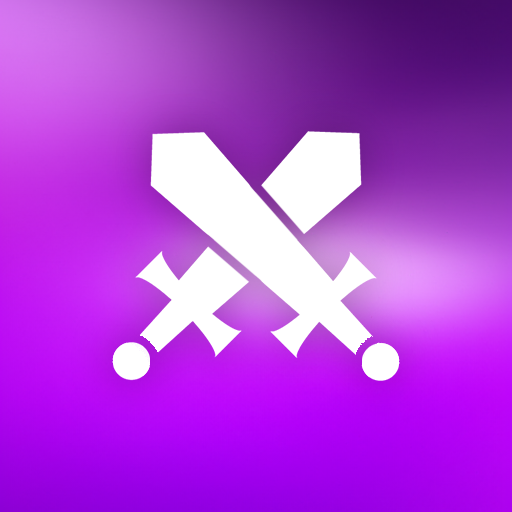
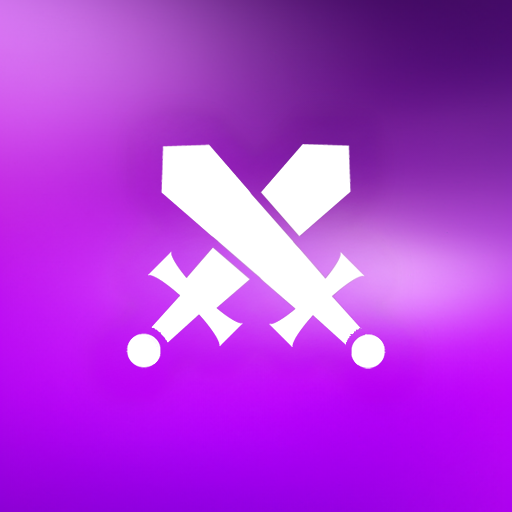
+d Shadow Higlighting in Profile View for different Post/Event types

diff --git a/styles/index.js b/styles/index.js
@@ -215,3 +215,52 @@ export const shadowRed = {
     },
     backgroundColor: colors.black,
 };
+
+export const profileContentShadowPost = {
+    shadowRadius: 8,
+    shadowOpacity: 0.33,
+    shadowColor: colors.blue,
+    shadowOffset: {
+        width: 0,
+        height: -2,
+    },
+
+    borderColor: colors.sec,
+    borderWidth: 1,
+};
+export const profileContentShadowChallenge = {
+    shadowRadius: 8,
+    shadowOpacity: 0.5,
+    shadowColor: "#ca55e7",
+    shadowOffset: {
+        width: 0,
+        height: -2,
+    },
+
+    borderColor: "#8829ac",
+    borderWidth: 1,
+};
+export const profileContentShadowGroup = {
+    shadowRadius: 8,
+    shadowOpacity: 0.5,
+    shadowColor: "#1AA382", //"#26b426ff",
+    shadowOffset: {
+        width: 0,
+        height: -2,
+    },
+
+    borderColor: "#146314",
+    borderWidth: 1,
+};
+export const profileContentShadowEvent = {
+    shadowRadius: 10,
+    shadowOpacity: 0.66,
+    shadowColor: colors.sec,
+    shadowOffset: {
+        width: 0,
+        height: -2,
+    },
+
+    borderColor: colors.sec,
+    borderWidth: 1,
+};

diff --git a/pages/Profile.jsx b/pages/Profile.jsx
@@ -98,20 +98,13 @@ export default function Profile({ navigation, route, openContextMenu }) {
                     .then(postSnap => {
                         if (postSnap.exists()) {
                             const postData = postSnap.val();
-                            if (!postData.isBanned && !postData.group)
+
+                            if (
+                                !postData.isBanned &&
+                                (!postData.group || postData.group === 2)
+                            )
                                 postEventDatas.push(postData);
 
-                            // if (!postData.isBanned) {
-                            //     setUser(user => {
-                            //         return {
-                            //             ...user,
-                            //             posts: user.posts.splice(
-                            //                 user.posts.indexOf(p[i]),
-                            //                 1
-                            //             ),
-                            //         };
-                            //     });
-                            // } else postEventDatas.push(postData);
                             if (i === p.length - 1 && !hasEvents)
                                 setPostEventList(
                                     sortArrayByDate(postEventDatas).reverse()
@@ -543,7 +536,11 @@ export default function Profile({ navigation, route, openContextMenu }) {
                                             data={item}
                                             style={[
                                                 styles.contentItem,
-                                                style.shadowSecSmall,
+                                                !item.group
+                                                    ? style.profileContentShadowPost
+                                                    : item.group === 2
+                                                    ? style.profileContentShadowChallenge
+                                                    : style.profileContentShadowGroup,
                                             ]}
                                             onPress={() =>
                                                 navigation.push("postView", {
@@ -558,7 +555,7 @@ export default function Profile({ navigation, route, openContextMenu }) {
                                             data={item}
                                             style={[
                                                 styles.contentItem,
-                                                style.shadowSecSmall,
+                                                style.profileContentShadowEvent,
                                             ]}
                                             onPress={() =>
                                                 navigation.push("eventView", {

diff --git a/constants/settings/challenge.js b/constants/settings/challenge.js
@@ -105,19 +105,19 @@ export async function resetChallenge(topPosts) {
     // Database Reference
     const db = getDatabase();
 
-    const posts = await getChallengePosts(ref(db));
+    // const posts = await getChallengePosts(ref(db));
     await handleChallengeScoring(topPosts);
 
-    posts.forEach(
-        async id =>
-            await set(ref(db, `posts/${id}/group`), null).catch(error =>
-                console.log(
-                    "error in constants/settings/challenge",
-                    "resetChallenge set posts",
-                    error.code
-                )
-            )
-    );
+    // posts.forEach(
+    //     async id =>
+    //         await set(ref(db, `posts/${id}/group`), null).catch(error =>
+    //             console.log(
+    //                 "error in constants/settings/challenge",
+    //                 "resetChallenge set posts",
+    //                 error.code
+    //             )
+    //         )
+    // );
 
     await set(ref(db, `groups/2/posts`), null).catch(error =>
         console.log(

diff --git a/pages/main/UserProfile.jsx b/pages/main/UserProfile.jsx
@@ -419,7 +419,11 @@ export default function UserProfile({ navigation, onTut }) {
                                             data={item}
                                             style={[
                                                 styles.contentItem,
-                                                style.shadowSecSmall,
+                                                !item.group
+                                                    ? style.profileContentShadowPost
+                                                    : item.group === 2
+                                                    ? style.profileContentShadowChallenge
+                                                    : style.profileContentShadowGroup,
                                             ]}
                                             onPress={() =>
                                                 navigation.push("postView", {
@@ -434,7 +438,7 @@ export default function UserProfile({ navigation, onTut }) {
                                             data={item}
                                             style={[
                                                 styles.contentItem,
-                                                style.shadowSecSmall,
+                                                style.profileContentShadowEvent,
                                             ]}
                                             onPress={() =>
                                                 navigation.push("eventView", {

diff --git a/components/comments/Comment.jsx b/components/comments/Comment.jsx
@@ -1,6 +1,7 @@
 import React from "react";
-import TComment from "./TComment";
 import { View } from "react-native";
+
+import TComment from "./TComment";
 import PComment from "./PComment";
 
 export default function Comment({

diff --git a/components/profile/EventPreview.jsx b/components/profile/EventPreview.jsx
@@ -35,7 +35,7 @@ const styles = StyleSheet.create({
     container: {
         width: "100%",
         aspectRatio: 1,
-        borderRadius: 10,
+        borderRadius: 9,
         position: "relative",
     },
 

diff --git a/components/profile/PostPreview.jsx b/components/profile/PostPreview.jsx
@@ -21,7 +21,7 @@ const styles = StyleSheet.create({
     container: {
         width: "100%",
         aspectRatio: 1,
-        borderRadius: 10,
+        borderRadius: 9,
         zIndex: 2,
         position: "relative",
     },

diff --git a/constants/share.js b/constants/share.js
@@ -61,7 +61,6 @@ export async function share(type, id, title) {
             {
                 dialogTitle: body.title,
                 subject: body.title,
-                tintColor: "#ffffff",
             }
         );
     } catch (e) {

diff --git a/pages/Event.jsx b/pages/Event.jsx
@@ -105,7 +105,6 @@ export default function Event({ navigation, route, onTut, openContextMenu }) {
     });
 
     const [isLive, setIsLive] = useState(false);
-    const [currentMapType, setCurrentMapType] = useState(0);
     const [checksUserListData, setChecksUserListData] = useState([]);
 
     const [commentVisible, setCommentVisible] = useState(false);